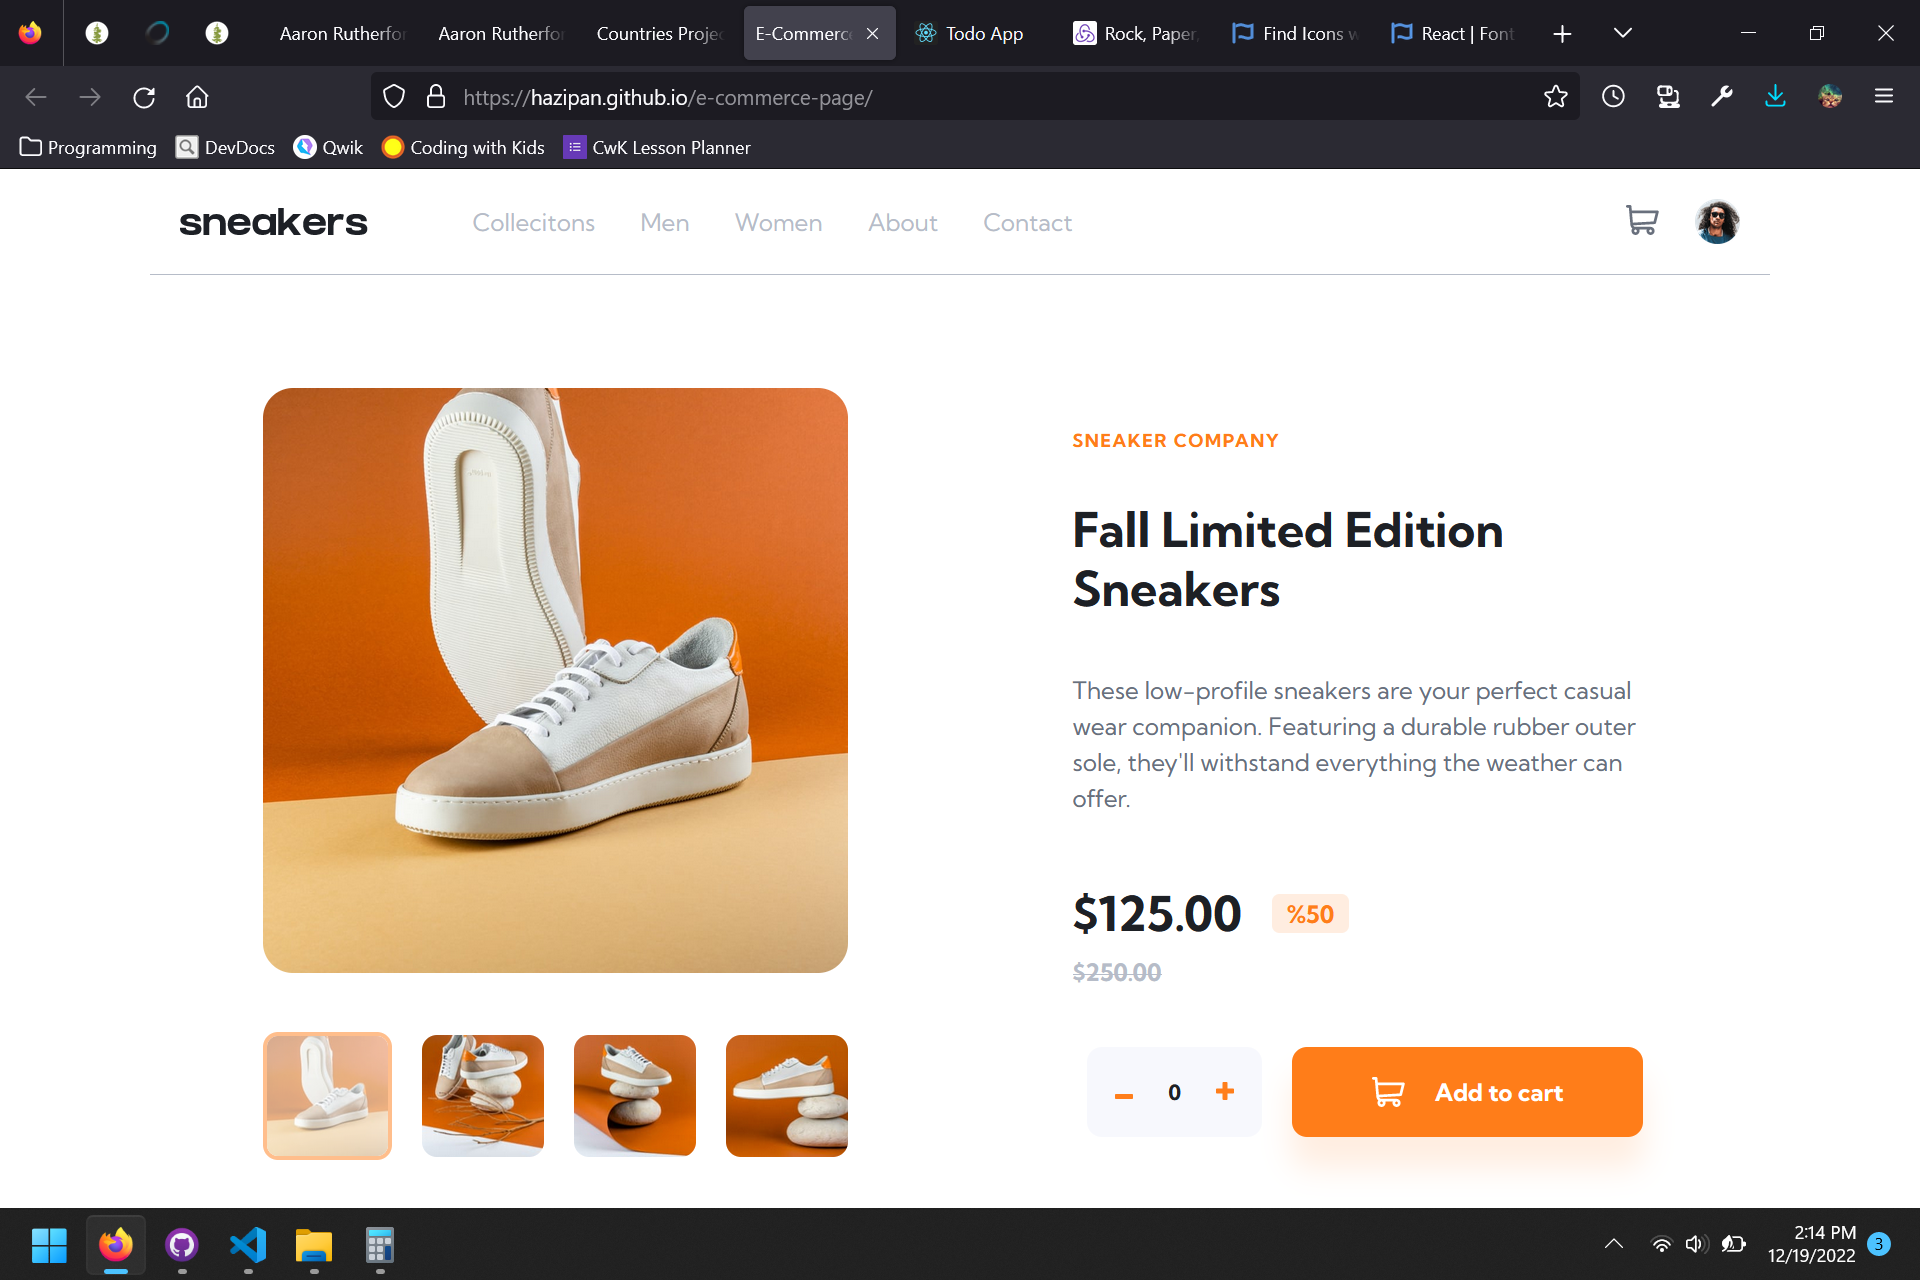
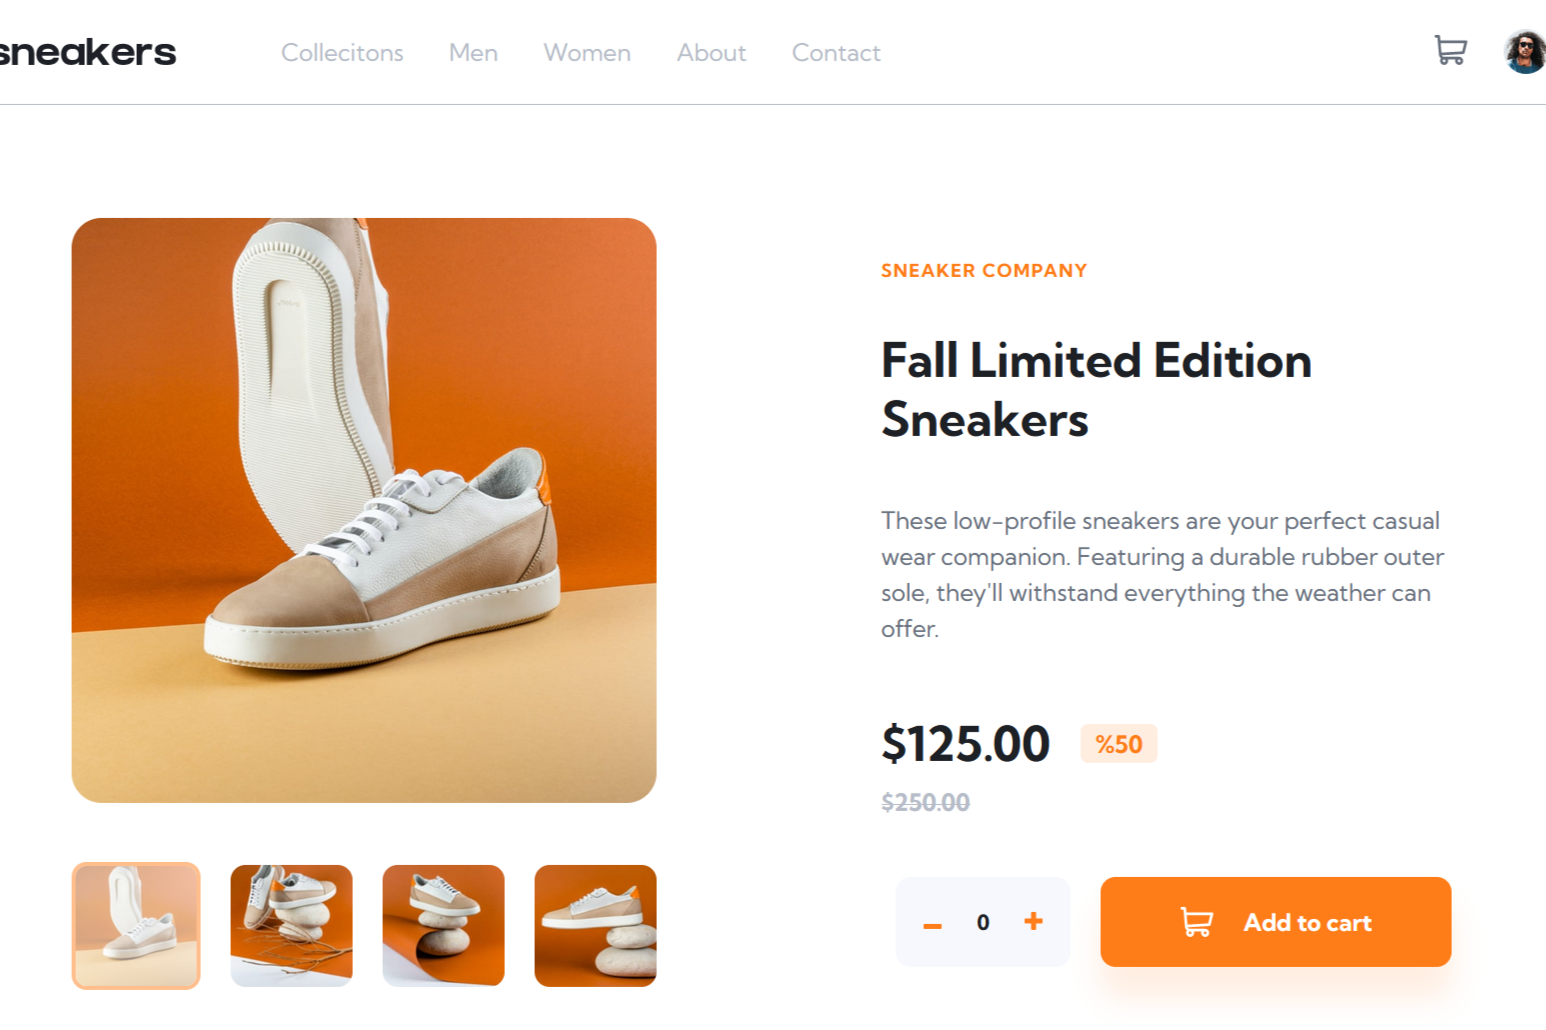
Added in all my projects

diff --git a/pages/projects.jsx b/pages/projects.jsx
@@ -7,6 +7,10 @@ import Main from "../components/main";
 import ProjectCard from "../components/project-card/project-card"
 // Image sources
 import tipCalc from "../public/images/screenshots/tip-calc.png";
+import rockPaperScissors from "../public/images/screenshots/rock-paper-scissors.png"
+import countriesAPI from "../public/images/screenshots/countries-api.png";
+import eCommerce from "../public/images/screenshots/e-commerce.png"
+import todo from "../public/images/screenshots/todo.png";
 // animation components
 import { motion } from "framer-motion";
 import motionProps from "../util/motion-props";
@@ -28,9 +32,38 @@ const Projects = () => {
         >
           <ProjectCard
             caption="Tip Calculator"
-            description="My first project using React, this app helps you calculate splitting the bill and tip with your group."
+            description="My first project using React. This app helps you calculate splitting the bill and tip with your group."
             src={tipCalc}
+            alt="tip calculator project screenshot"
             link="https://hazipan.github.io/tip-calc/"
+          />
+          <ProjectCard
+            caption="E-Commerce Site"
+            description="This site shows off my ability to achieve pixel perfection from a given design. This is a mock site for an e-commerce site with a functional cart and image gallery."
+            src={eCommerce}
+            alt="static e-commerce project screenshot"
+            link="https://hazipan.github.io/e-commerce-page/"
+          />
+          <ProjectCard
+            caption="Rock, Paper, Scissors, Lizard, Spock"
+            description="An expansion on the classic rock, paper, scissors game. This project really tested my CSS abilities. Your score is stored in your browser to save it between sessions."
+            src={rockPaperScissors}
+            alt="rock, paper, scissors, lizeard, spock project screenshot"
+            link="https://hazipan.github.io/rock-paper-scissors-lizard-spock/"
+          />
+          <ProjectCard
+            caption="Countries API"
+            description="My first exposure to using APIs, this project is connecting to the countries API, allowing you to search and explore all the countries in the world and learn about them."
+            src={countriesAPI}
+            alt="countries API project screenshot"
+            link="https://hazipan.github.io/countries-project-using-api/"
+          />
+          <ProjectCard
+            caption="Todo App"
+            description="A simple todo app with some sorting functionality. This project tested my ability to manipulate arrays and exposed me to creating drag and drop functionality."
+            src={todo}
+            alt="todo project screenshot"
+            link="https://hazipan.github.io/todo-app/"
           />
         </motion.div>
       </Main>

diff --git a/components/project-card/project-card.jsx b/components/project-card/project-card.jsx
@@ -9,9 +9,9 @@ import { faCaretDown } from "@fortawesome/free-solid-svg-icons";
 
 import styles from "./project-card.module.css";
 
-const ProjectCard = ({ caption, description, src, link }) => {
-  const contentId = `${src}Content`;
-  const caretId = `${src}Caret`
+const ProjectCard = ({ caption, description, src, link, alt }) => {
+  const contentId = `${caption}Content`;
+  const caretId = `${caption}Caret`
   const toggleContent = (e) => {
     const content = document.getElementById(contentId);
     const caret = document.getElementById(caretId);
@@ -34,7 +34,7 @@ const ProjectCard = ({ caption, description, src, link }) => {
           <Image
             src={src}
             fill="true"
-            alt="tip calculator project"
+            alt={alt}
           />
         </a>
       </div>

diff --git a/components/project-card/project-card.module.css b/components/project-card/project-card.module.css
@@ -26,6 +26,7 @@
   transition-duration: .2s;
   box-shadow: 0 -5px 5px hsla(0, 0%, 0%, 5%);
   overflow-y: hidden;
+  line-height: 20px;
 }
 
 .captionWrapper {

diff --git a/public/styles/projects.module.css b/public/styles/projects.module.css
@@ -5,4 +5,5 @@
   /* justify-content: center; */
   align-items: center;
   min-height: 100vh;
+  gap: 30px;
 }
